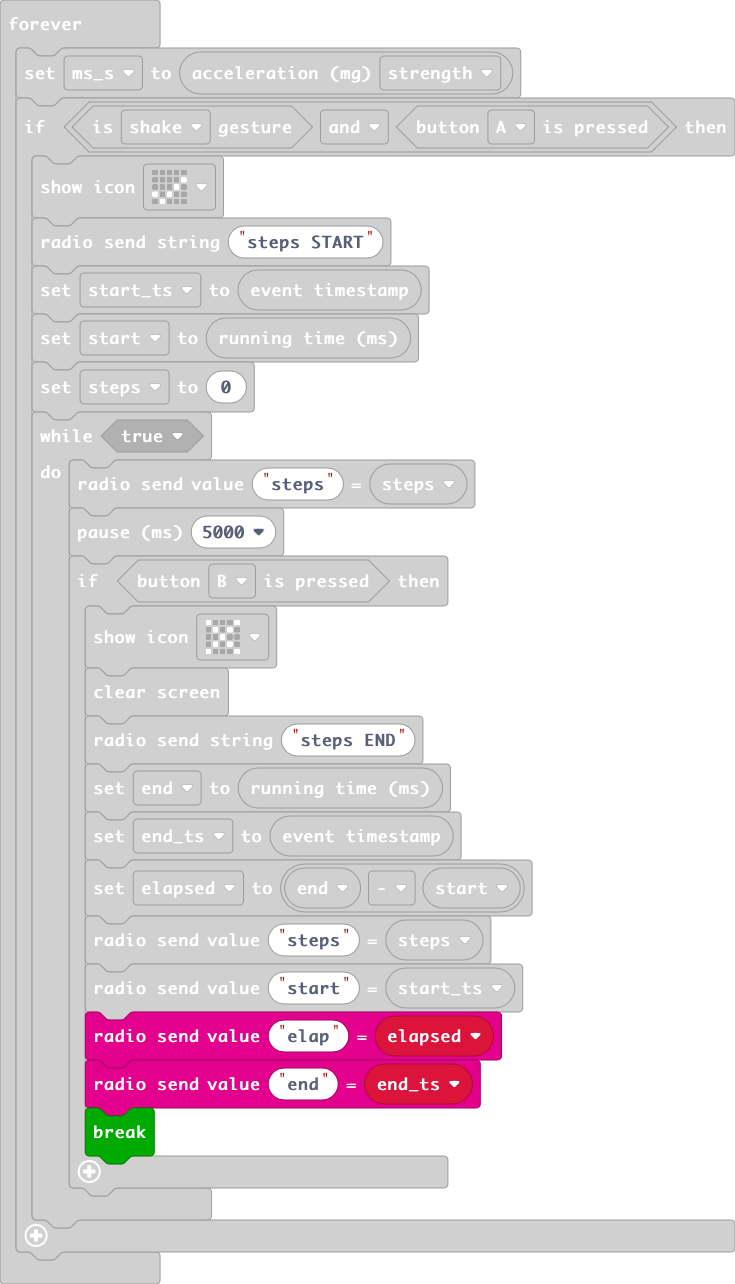
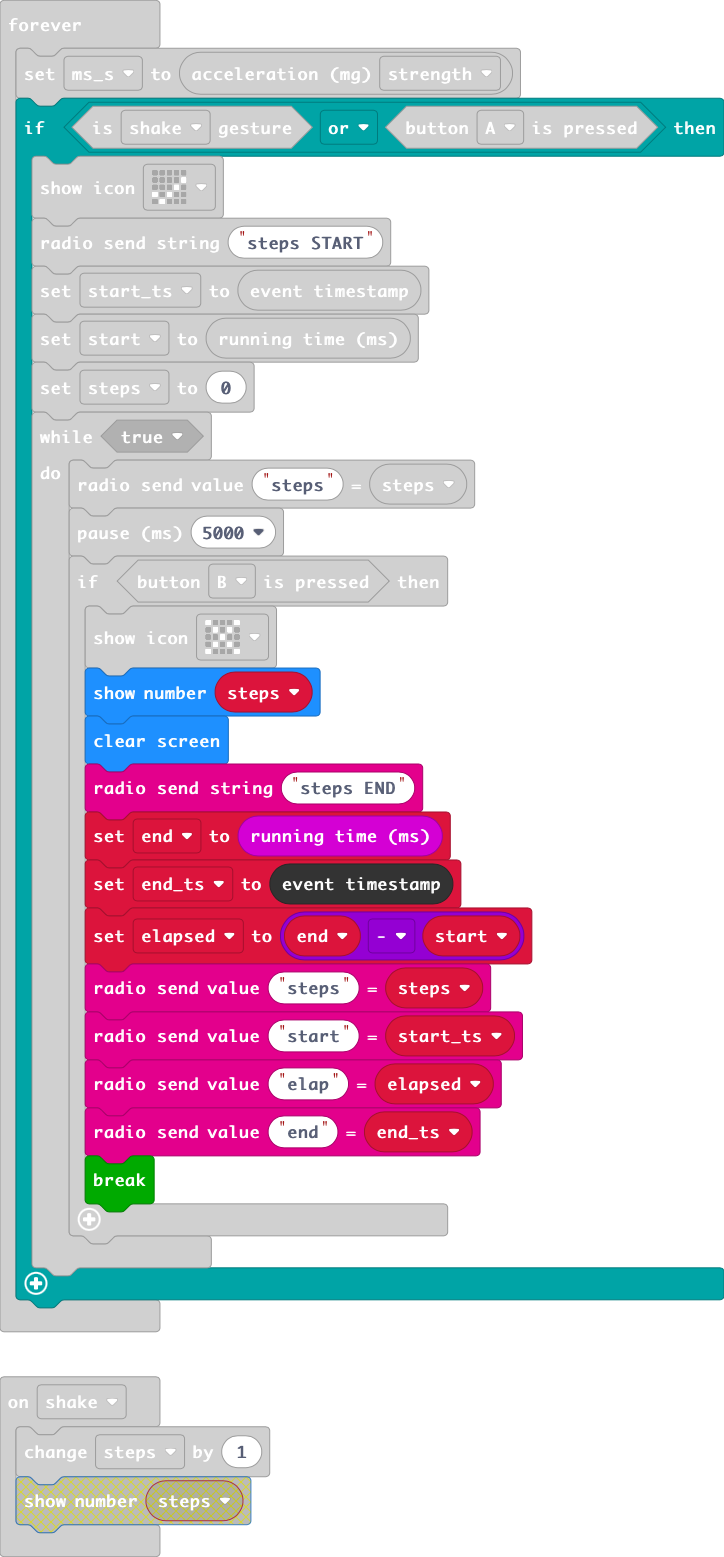
updated

diff --git a/main.ts b/main.ts
@@ -1,6 +1,5 @@
 input.onGesture(Gesture.Shake, function () {
     steps += 1
-    basic.showNumber(steps)
 })
 let elapsed = 0
 let end_ts = 0
@@ -17,7 +16,7 @@ radio.setFrequencyBand(7)
 radio.setTransmitPower(7)
 basic.forever(function () {
     ms_s = input.acceleration(Dimension.Strength)
-    if (input.isGesture(Gesture.Shake) && input.buttonIsPressed(Button.A)) {
+    if (input.isGesture(Gesture.Shake) || input.buttonIsPressed(Button.A)) {
         basic.showIcon(IconNames.Yes)
         radio.sendString("steps START")
         start_ts = control.eventTimestamp()
@@ -28,6 +27,7 @@ basic.forever(function () {
             basic.pause(5000)
             if (input.buttonIsPressed(Button.B)) {
                 basic.showIcon(IconNames.No)
+                basic.showNumber(steps)
                 basic.clearScreen()
                 radio.sendString("steps END")
                 end = input.runningTime()
